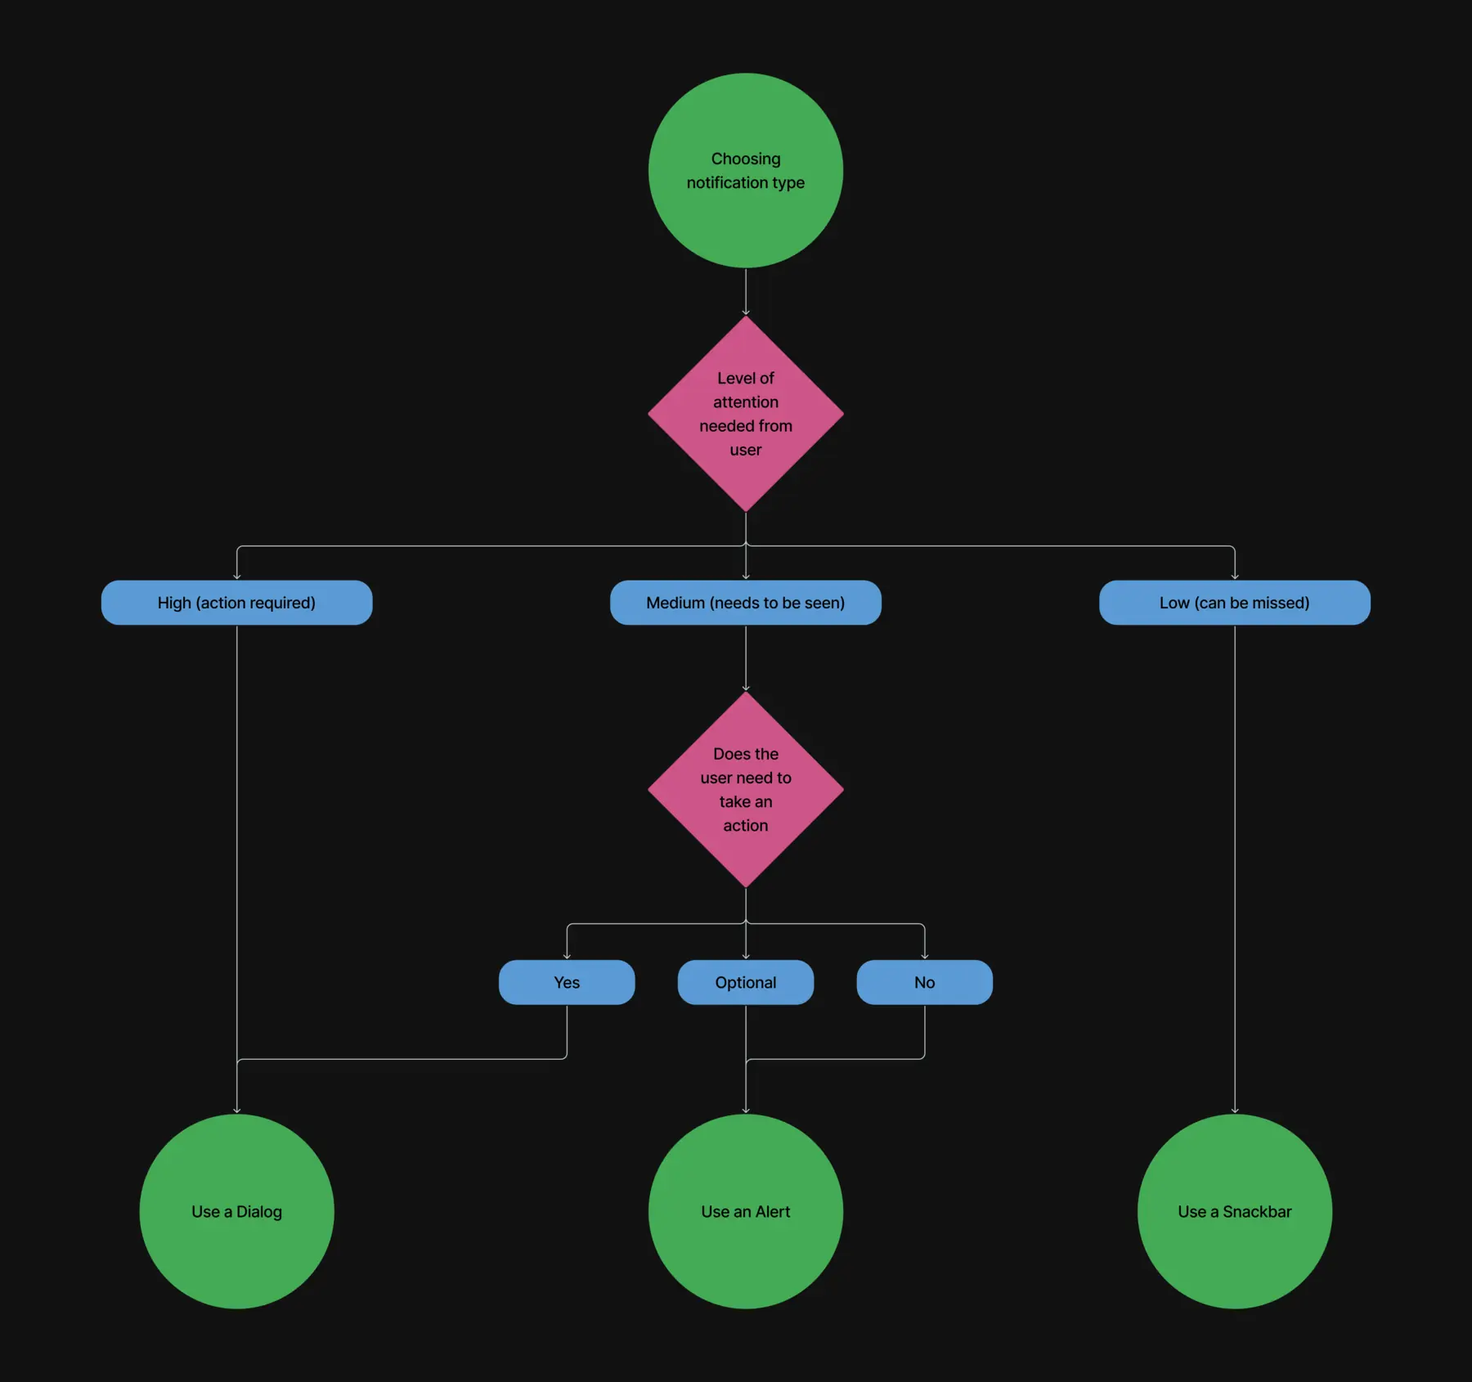
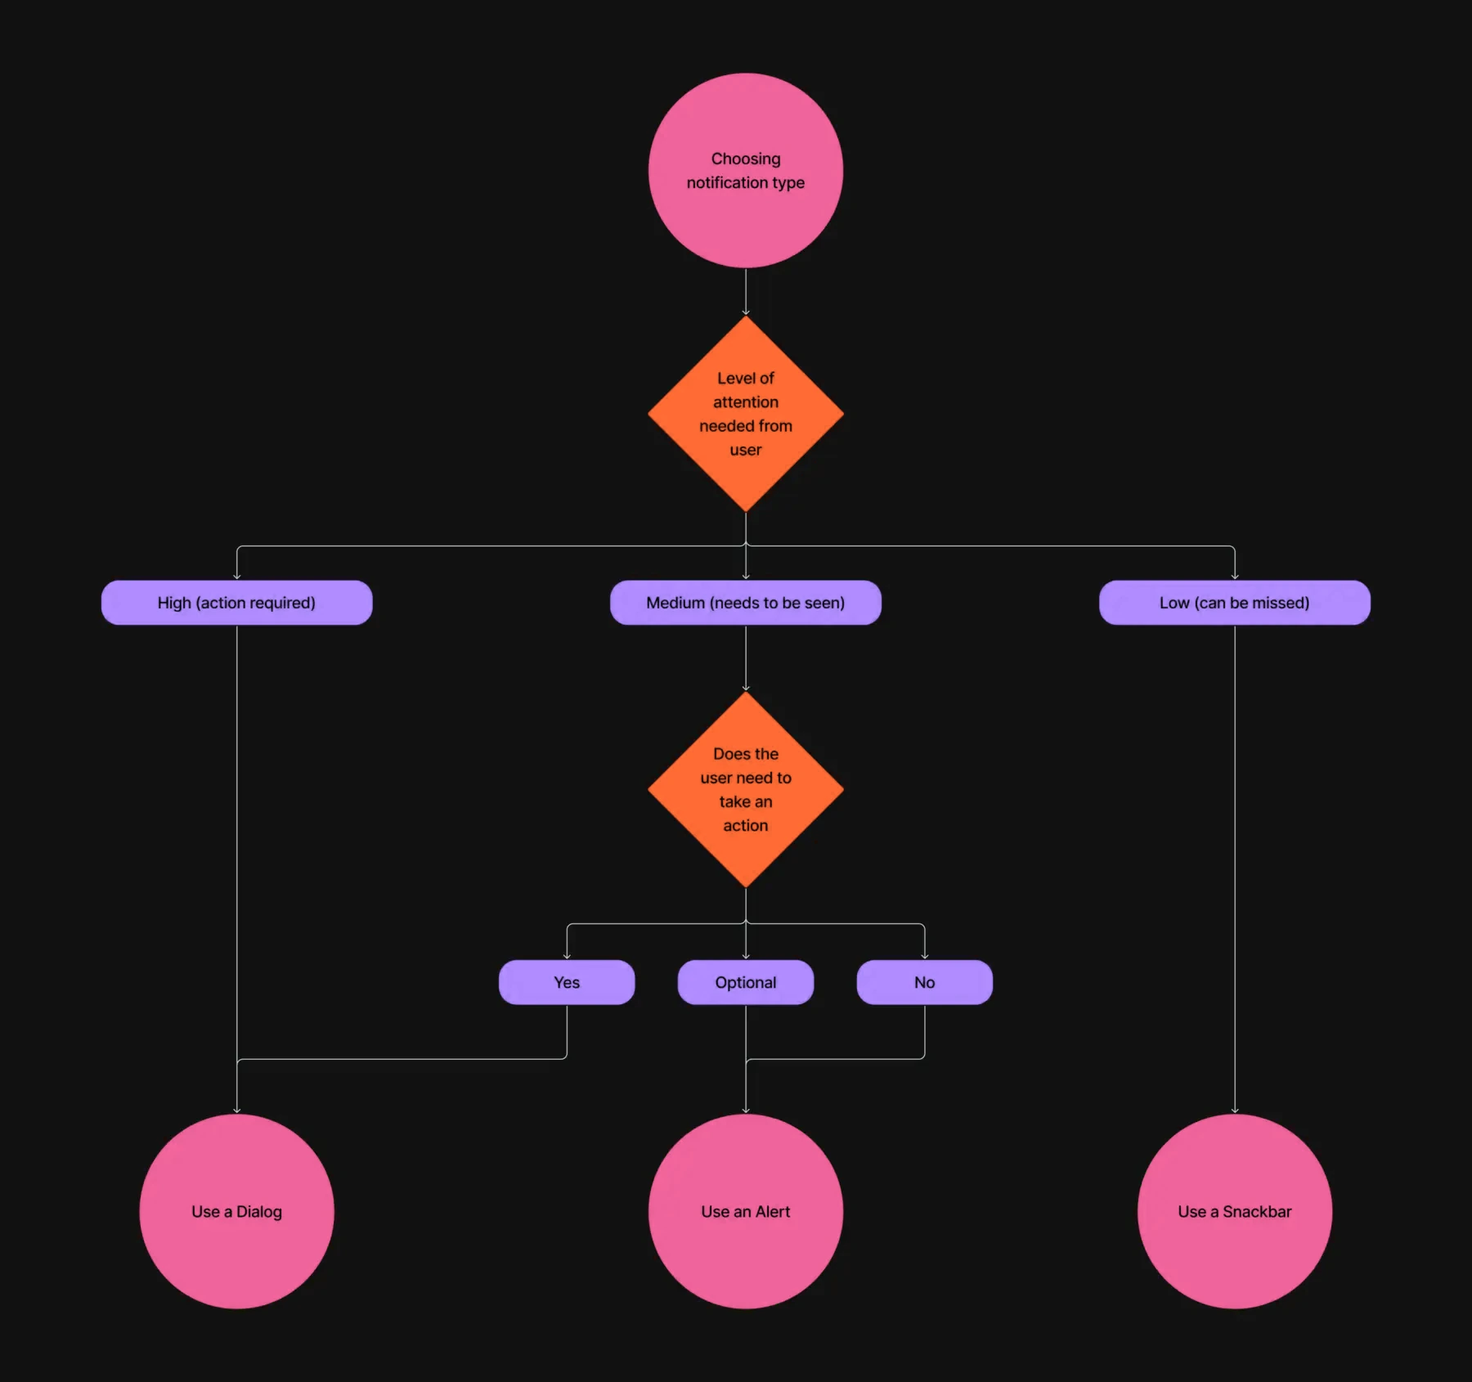
Consistency fixes: footer name removed and links centred, brighter body text, flowchart in site palette, design system accent orange, hidden pages noindex
Claude-Session: https://claude.ai/code/session_01Rgaxtm83BsambxhU9VTWpF

diff --git a/design-system.html b/design-system.html
@@ -327,7 +327,7 @@
       .img-feature .img-frame img { height: auto; }
     }
   </style>
-  <link rel="stylesheet" href="case-study.css?v=202611100658q">
+  <link rel="stylesheet" href="case-study.css?v=202611100738t">
   <style>
     .ds-flow { background: none; box-shadow: none !important; }
     .ds-flow-svg { display: block; width: 100%; height: auto; padding: clamp(16px, 3vw, 48px); box-sizing: border-box; }
@@ -373,7 +373,7 @@
   </div>
 
   <!-- Body -->
-  <div class="content-wrap cs-main" style="--accent:#2aa0a0">
+  <div class="content-wrap cs-main" style="--accent:#ff6b35">
     <div class="divider" style="margin-top: 0;"></div>
 
 
@@ -453,9 +453,9 @@
         <svg class="ds-flow-svg" viewBox="0 0 1560 520" role="img" aria-label="Decision flow for choosing a notification component. High attention needed: use a dialog. Medium: if the user must take an action use a dialog, if optional or not needed use an alert. Low: use a snackbar." font-family="'Schibsted Grotesk', sans-serif" font-weight="500">
         <defs><marker id="ah" viewBox="0 0 10 10" refX="9" refY="5" markerWidth="7" markerHeight="7" orient="auto-start-reverse"><path d="M0,1 L9,5 L0,9" fill="none" stroke="rgba(255,255,255,0.45)" stroke-width="1.5"/></marker></defs>
         <path d="M190,260 H262" fill="none" stroke="rgba(255,255,255,0.45)" stroke-width="1.5" marker-end="url(#ah)"/><path d="M455,260 H470" fill="none" stroke="rgba(255,255,255,0.45)" stroke-width="1.5"/><path d="M470,90 V430" fill="none" stroke="rgba(255,255,255,0.45)" stroke-width="1.5"/><path d="M470,90 H482" fill="none" stroke="rgba(255,255,255,0.45)" stroke-width="1.5" marker-end="url(#ah)"/><path d="M470,260 H482" fill="none" stroke="rgba(255,255,255,0.45)" stroke-width="1.5" marker-end="url(#ah)"/><path d="M470,430 H482" fill="none" stroke="rgba(255,255,255,0.45)" stroke-width="1.5" marker-end="url(#ah)"/><path d="M735,90 H1382" fill="none" stroke="rgba(255,255,255,0.45)" stroke-width="1.5" marker-end="url(#ah)"/><path d="M735,430 H1382" fill="none" stroke="rgba(255,255,255,0.45)" stroke-width="1.5" marker-end="url(#ah)"/><path d="M735,260 H802" fill="none" stroke="rgba(255,255,255,0.45)" stroke-width="1.5" marker-end="url(#ah)"/><path d="M995,260 H1030" fill="none" stroke="rgba(255,255,255,0.45)" stroke-width="1.5"/><path d="M1030,170 V350" fill="none" stroke="rgba(255,255,255,0.45)" stroke-width="1.5"/><path d="M1030,170 H1052" fill="none" stroke="rgba(255,255,255,0.45)" stroke-width="1.5" marker-end="url(#ah)"/><path d="M1030,260 H1052" fill="none" stroke="rgba(255,255,255,0.45)" stroke-width="1.5" marker-end="url(#ah)"/><path d="M1030,350 H1052" fill="none" stroke="rgba(255,255,255,0.45)" stroke-width="1.5" marker-end="url(#ah)"/><path d="M1205,170 H1290 Q1300,170 1300,160 V90" fill="none" stroke="rgba(255,255,255,0.45)" stroke-width="1.5"/><path d="M1205,260 H1382" fill="none" stroke="rgba(255,255,255,0.45)" stroke-width="1.5" marker-end="url(#ah)"/><path d="M1205,350 H1290 Q1300,350 1300,340 V260" fill="none" stroke="rgba(255,255,255,0.45)" stroke-width="1.5"/>
-        <circle cx="110" cy="260" r="80" fill="#43a854"/><text x="110" y="248.9" text-anchor="middle" dominant-baseline="central" font-size="17" fill="#111">Choosing</text><text x="110" y="271.1" text-anchor="middle" dominant-baseline="central" font-size="17" fill="#111">notification type</text><polygon points="360,165 455,260 360,355 265,260" fill="#d1578a"/><text x="360" y="240.5" text-anchor="middle" dominant-baseline="central" font-size="15" fill="#111">Level of</text><text x="360" y="260.0" text-anchor="middle" dominant-baseline="central" font-size="15" fill="#111">attention needed</text><text x="360" y="279.5" text-anchor="middle" dominant-baseline="central" font-size="15" fill="#111">from user</text><rect x="485.0" y="66" width="250" height="48" rx="12" fill="#5b9bd9"/><text x="610" y="90.0" text-anchor="middle" dominant-baseline="central" font-size="17" fill="#111">High (action required)</text><rect x="485.0" y="236" width="250" height="48" rx="12" fill="#5b9bd9"/><text x="610" y="260.0" text-anchor="middle" dominant-baseline="central" font-size="17" fill="#111">Medium (needs to be seen)</text><rect x="485.0" y="406" width="250" height="48" rx="12" fill="#5b9bd9"/><text x="610" y="430.0" text-anchor="middle" dominant-baseline="central" font-size="17" fill="#111">Low (can be missed)</text><polygon points="900,165 995,260 900,355 805,260" fill="#d1578a"/><text x="900" y="240.5" text-anchor="middle" dominant-baseline="central" font-size="15" fill="#111">Does the user</text><text x="900" y="260.0" text-anchor="middle" dominant-baseline="central" font-size="15" fill="#111">need to take</text><text x="900" y="279.5" text-anchor="middle" dominant-baseline="central" font-size="15" fill="#111">an action</text><rect x="1055.0" y="146" width="150" height="48" rx="12" fill="#5b9bd9"/><text x="1130" y="170.0" text-anchor="middle" dominant-baseline="central" font-size="17" fill="#111">Yes</text><rect x="1055.0" y="236" width="150" height="48" rx="12" fill="#5b9bd9"/><text x="1130" y="260.0" text-anchor="middle" dominant-baseline="central" font-size="17" fill="#111">Optional</text><rect x="1055.0" y="326" width="150" height="48" rx="12" fill="#5b9bd9"/><text x="1130" y="350.0" text-anchor="middle" dominant-baseline="central" font-size="17" fill="#111">No</text><circle cx="1460" cy="90" r="75" fill="#43a854"/><text x="1460" y="90.0" text-anchor="middle" dominant-baseline="central" font-size="17" fill="#111">Use a Dialog</text><circle cx="1460" cy="260" r="75" fill="#43a854"/><text x="1460" y="260.0" text-anchor="middle" dominant-baseline="central" font-size="17" fill="#111">Use an Alert</text><circle cx="1460" cy="430" r="75" fill="#43a854"/><text x="1460" y="430.0" text-anchor="middle" dominant-baseline="central" font-size="17" fill="#111">Use a Snackbar</text>
+        <circle cx="110" cy="260" r="80" fill="#f0649b"/><text x="110" y="248.9" text-anchor="middle" dominant-baseline="central" font-size="17" fill="#111">Choosing</text><text x="110" y="271.1" text-anchor="middle" dominant-baseline="central" font-size="17" fill="#111">notification type</text><polygon points="360,165 455,260 360,355 265,260" fill="#ff6b35"/><text x="360" y="240.5" text-anchor="middle" dominant-baseline="central" font-size="15" fill="#111">Level of</text><text x="360" y="260.0" text-anchor="middle" dominant-baseline="central" font-size="15" fill="#111">attention needed</text><text x="360" y="279.5" text-anchor="middle" dominant-baseline="central" font-size="15" fill="#111">from user</text><rect x="485.0" y="66" width="250" height="48" rx="12" fill="#b08cff"/><text x="610" y="90.0" text-anchor="middle" dominant-baseline="central" font-size="17" fill="#111">High (action required)</text><rect x="485.0" y="236" width="250" height="48" rx="12" fill="#b08cff"/><text x="610" y="260.0" text-anchor="middle" dominant-baseline="central" font-size="17" fill="#111">Medium (needs to be seen)</text><rect x="485.0" y="406" width="250" height="48" rx="12" fill="#b08cff"/><text x="610" y="430.0" text-anchor="middle" dominant-baseline="central" font-size="17" fill="#111">Low (can be missed)</text><polygon points="900,165 995,260 900,355 805,260" fill="#ff6b35"/><text x="900" y="240.5" text-anchor="middle" dominant-baseline="central" font-size="15" fill="#111">Does the user</text><text x="900" y="260.0" text-anchor="middle" dominant-baseline="central" font-size="15" fill="#111">need to take</text><text x="900" y="279.5" text-anchor="middle" dominant-baseline="central" font-size="15" fill="#111">an action</text><rect x="1055.0" y="146" width="150" height="48" rx="12" fill="#b08cff"/><text x="1130" y="170.0" text-anchor="middle" dominant-baseline="central" font-size="17" fill="#111">Yes</text><rect x="1055.0" y="236" width="150" height="48" rx="12" fill="#b08cff"/><text x="1130" y="260.0" text-anchor="middle" dominant-baseline="central" font-size="17" fill="#111">Optional</text><rect x="1055.0" y="326" width="150" height="48" rx="12" fill="#b08cff"/><text x="1130" y="350.0" text-anchor="middle" dominant-baseline="central" font-size="17" fill="#111">No</text><circle cx="1460" cy="90" r="75" fill="#f0649b"/><text x="1460" y="90.0" text-anchor="middle" dominant-baseline="central" font-size="17" fill="#111">Use a Dialog</text><circle cx="1460" cy="260" r="75" fill="#f0649b"/><text x="1460" y="260.0" text-anchor="middle" dominant-baseline="central" font-size="17" fill="#111">Use an Alert</text><circle cx="1460" cy="430" r="75" fill="#f0649b"/><text x="1460" y="430.0" text-anchor="middle" dominant-baseline="central" font-size="17" fill="#111">Use a Snackbar</text>
       </svg>
-        <img class="ds-flow-mobile" width="1800" height="1690" loading="lazy" decoding="async" src="images/ds2.webp" alt="Decision flow for choosing between a dialog, alert or snackbar">
+        <img class="ds-flow-mobile" width="1800" height="1690" loading="lazy" decoding="async" src="images/ds2.webp?v=202611100738t" alt="Decision flow for choosing between a dialog, alert or snackbar">
       </div>
       <p class="img-caption">Guidance for choosing the right notification component</p>
     </div>
@@ -514,14 +514,13 @@
     <div class="content-wrap">
       <p class="serif footer-cta" data-reveal>Let&rsquo;s talk.<br><a href="#" class="js-email"><span class="fx">Say hello</span> <span class="arr fx" aria-hidden="true">&rarr;</span></a></p>
       <div class="footer-row" data-reveal style="--d:0.15s">
-        <span class="footer-name">Dan Walker</span>
         <span class="footer-links"><a href="cv.html">CV</a><a href="#" id="footer-email-link">dwlkr [at] me.com</a><a href="tel:+447885725355">+44 7885 725355</a></span>
       </div>
     </div>
   </footer>
 
-  <script src="nav.js?v=202610202309l"></script>
-  <script src="case-study.js?v=202611100658q"></script>
+  <script src="nav.js?v=202611100738t"></script>
+  <script src="case-study.js?v=202611100738t"></script>
 
 </body>
 </html>

diff --git a/cv.html b/cv.html
@@ -187,7 +187,7 @@
       .cv-print-btn { display: none !important; }
     }
   </style>
-  <link rel="stylesheet" href="case-study.css?v=202611100658q">
+  <link rel="stylesheet" href="case-study.css?v=202611100738t">
   <style>
     /* CV entries inside the shared editorial grid */
     .cv-entry { margin-bottom: clamp(36px, 4vw, 56px); }
@@ -197,7 +197,7 @@
     .cv-entry-date { grid-column: 2; grid-row: 1; font-size: 0.8rem; color: var(--muted); opacity: 0.7; white-space: nowrap; font-variant-numeric: tabular-nums; }
     .cv-entry .cv-entry-company { grid-column: 1; grid-row: 2; font-size: 0.75rem; font-weight: 500; letter-spacing: 0.1em; text-transform: uppercase; color: var(--muted); opacity: 0.6; margin: 0; }
     ul.cv-list { list-style: none; margin: 0; padding: 0; }
-    ul.cv-list li { position: relative; padding-left: 20px; font-size: 1.02rem; line-height: 1.75; color: var(--muted); margin-bottom: 10px; max-width: 42em; }
+    ul.cv-list li { position: relative; padding-left: 20px; font-size: 1.02rem; line-height: 1.75; color: rgba(244,241,234,0.74); margin-bottom: 10px; max-width: 42em; }
     ul.cv-list li:last-child { margin-bottom: 0; }
     ul.cv-list li::before { content: ''; position: absolute; left: 0; top: 0.72em; width: 5px; height: 5px; border-radius: 50%; background: var(--accent, var(--pink)); opacity: 0.6; }
     .cv-skills { display: flex; flex-wrap: wrap; gap: 10px; }
@@ -437,14 +437,13 @@
     <div class="content-wrap">
       <p class="serif footer-cta" data-reveal>Let&rsquo;s talk.<br><a href="#" class="js-email"><span class="fx">Say hello</span> <span class="arr fx" aria-hidden="true">&rarr;</span></a></p>
       <div class="footer-row" data-reveal style="--d:0.15s">
-        <span class="footer-name">Dan Walker</span>
         <span class="footer-links"><a href="cv.html">CV</a><a href="#" id="footer-email-link">dwlkr [at] me.com</a><a href="tel:+447885725355">+44 7885 725355</a></span>
       </div>
     </div>
   </footer>
 
-  <script src="nav.js?v=202610202309l"></script>
-  <script src="case-study.js?v=202611100658q"></script>
+  <script src="nav.js?v=202611100738t"></script>
+  <script src="case-study.js?v=202611100738t"></script>
   <script>
     var cvEmail = document.getElementById('cv-email');
     if (cvEmail) cvEmail.textContent = 'dwlkr' + '@' + 'me.com';

diff --git a/index.html b/index.html
@@ -384,12 +384,11 @@
     @media (prefers-reduced-motion: reduce) { .fx { animation: none; } }
     .footer-cta a .arr { display: inline-block; font-family: 'Schibsted Grotesk', sans-serif; font-weight: 300; transition: transform 0.4s cubic-bezier(0.22, 1, 0.36, 1); }
     .footer-cta a:hover .arr { transform: translateX(0.12em); }
-    .footer-row { display: flex; flex-wrap: wrap; justify-content: space-between; gap: 16px; padding-top: 24px; border-top: 1px solid rgba(255,255,255,0.08); font-size: 0.875rem; color: var(--muted); }
+    .footer-row { display: flex; flex-wrap: wrap; justify-content: center; gap: 16px; padding-top: 24px; border-top: 1px solid rgba(255,255,255,0.08); font-size: 0.875rem; color: var(--muted); }
     .footer-row a { color: var(--muted); text-decoration: none; margin-left: 24px; }
     .footer-row a:first-child { margin-left: 0; }
     .footer-row a:hover { color: var(--ink); }
     @media (max-width: 768px) {
-      .footer-name { display: none; }
       .footer-row { justify-content: flex-start; }
       .footer-links { display: flex; flex-wrap: wrap; justify-content: flex-start; gap: 8px 24px; }
       .footer-links a { margin-left: 0 !important; }
@@ -621,13 +620,12 @@
     <div class="content-wrap">
       <p class="serif footer-cta" data-reveal>Let&rsquo;s talk.<br><a href="#" class="js-email"><span class="fx">Say hello</span> <span class="arr fx" aria-hidden="true">&rarr;</span></a></p>
       <div class="footer-row" data-reveal style="--d:0.15s">
-        <span class="footer-name">Dan Walker</span>
         <span class="footer-links"><a href="cv.html">CV</a><a href="#" id="footer-email-link">dwlkr [at] me.com</a><a href="tel:+447885725355">+44 7885 725355</a></span>
       </div>
     </div>
   </footer>
 
-  <script src="nav.js?v=202610202309l"></script>
+  <script src="nav.js?v=202611100738t"></script>
   <script>
     // Word reveal — handles plain text and mixed HTML children
     document.querySelectorAll('.word-reveal').forEach(function(el) {

diff --git a/case-study.css b/case-study.css
@@ -195,12 +195,11 @@ html:not(.js) .loader, html:not(.is-loading) .loader { opacity: 0; visibility: h
 @media (prefers-reduced-motion: reduce) { .fx { animation: none; } }
 .footer-cta a .arr { display: inline-block; font-family: 'Schibsted Grotesk', sans-serif; font-weight: 300; transition: transform 0.4s var(--ease); }
 .footer-cta a:hover .arr { transform: translateX(0.12em); }
-.footer-row { display: flex; flex-wrap: wrap; justify-content: space-between; gap: 16px; padding-top: 24px; border-top: 1px solid rgba(255,255,255,0.08); font-size: 0.875rem; color: var(--muted); }
+.footer-row { display: flex; flex-wrap: wrap; justify-content: center; gap: 16px; padding-top: 24px; border-top: 1px solid rgba(255,255,255,0.08); font-size: 0.875rem; color: var(--muted); }
 .footer-row a { color: var(--muted); text-decoration: none; margin-left: 24px; }
 .footer-row a:first-child { margin-left: 0; }
 .footer-row a:hover { color: var(--ink); }
 @media (max-width: 768px) {
-  .footer-name { display: none; }
   .footer-row { justify-content: flex-start; }
   .footer-links { display: flex; flex-wrap: wrap; justify-content: flex-start; gap: 8px 24px; }
   .footer-links a { margin-left: 0 !important; }
@@ -285,3 +284,6 @@ h1, .cs-h1, h2, h3, .section-title { text-wrap: balance; }
 
 /* Literata: semi-bold, slightly tightened for big titles */
 .cs-h1, .cs-header h1 { font-weight: 600 !important; letter-spacing: -0.02em !important; }
+
+/* Body text: same soft white as the homepage descriptions (was a duller grey) */
+.cs-main .body-text, .cs-main ul.cv-list li { color: rgba(244,241,234,0.74); }

diff --git a/about.html b/about.html
@@ -321,7 +321,7 @@
       .img-feature .img-frame img { height: auto; }
     }
   </style>
-  <link rel="stylesheet" href="case-study.css?v=202611100658q">
+  <link rel="stylesheet" href="case-study.css?v=202611100738t">
   <style>
     .about-header .cs-h1 { margin-bottom: clamp(20px, 2.4vw, 32px); }
     .about-header .cs-intro { max-width: 32em; }
@@ -382,14 +382,13 @@
     <div class="content-wrap">
       <p class="serif footer-cta" data-reveal>Let&rsquo;s talk.<br><a href="#" class="js-email"><span class="fx">Say hello</span> <span class="arr fx" aria-hidden="true">&rarr;</span></a></p>
       <div class="footer-row" data-reveal style="--d:0.15s">
-        <span class="footer-name">Dan Walker</span>
         <span class="footer-links"><a href="cv.html">CV</a><a href="#" id="footer-email-link">dwlkr [at] me.com</a><a href="tel:+447885725355">+44 7885 725355</a></span>
       </div>
     </div>
   </footer>
 
-  <script src="nav.js?v=202610202309l"></script>
-  <script src="case-study.js?v=202611100658q"></script>
+  <script src="nav.js?v=202611100738t"></script>
+  <script src="case-study.js?v=202611100738t"></script>
 
 </body>
 </html>

diff --git a/case-study-1.html b/case-study-1.html
@@ -321,7 +321,7 @@
       .img-feature .img-frame img { height: auto; }
     }
   </style>
-  <link rel="stylesheet" href="case-study.css?v=202611100658q">
+  <link rel="stylesheet" href="case-study.css?v=202611100738t">
   <style>
     .old-tools { margin: 0 0 clamp(72px, 9vw, 140px); }
     .old-tools .img-grid { margin: 0 !important; }
@@ -532,14 +532,13 @@
     <div class="content-wrap">
       <p class="serif footer-cta" data-reveal>Let&rsquo;s talk.<br><a href="#" class="js-email"><span class="fx">Say hello</span> <span class="arr fx" aria-hidden="true">&rarr;</span></a></p>
       <div class="footer-row" data-reveal style="--d:0.15s">
-        <span class="footer-name">Dan Walker</span>
         <span class="footer-links"><a href="cv.html">CV</a><a href="#" id="footer-email-link">dwlkr [at] me.com</a><a href="tel:+447885725355">+44 7885 725355</a></span>
       </div>
     </div>
   </footer>
 
-  <script src="nav.js?v=202610202309l"></script>
-  <script src="case-study.js?v=202611100658q"></script>
+  <script src="nav.js?v=202611100738t"></script>
+  <script src="case-study.js?v=202611100738t"></script>
 
 </body>
 </html>

diff --git a/case-study-2.html b/case-study-2.html
@@ -347,7 +347,7 @@
       .img-feature .img-light, .img-feature .img-dark { height: auto; aspect-ratio: 4/3; }
     }
   </style>
-  <link rel="stylesheet" href="case-study.css?v=202611100658q">
+  <link rel="stylesheet" href="case-study.css?v=202611100738t">
 </head>
 
 <body>
@@ -568,14 +568,13 @@
     <div class="content-wrap">
       <p class="serif footer-cta" data-reveal>Let&rsquo;s talk.<br><a href="#" class="js-email"><span class="fx">Say hello</span> <span class="arr fx" aria-hidden="true">&rarr;</span></a></p>
       <div class="footer-row" data-reveal style="--d:0.15s">
-        <span class="footer-name">Dan Walker</span>
         <span class="footer-links"><a href="cv.html">CV</a><a href="#" id="footer-email-link">dwlkr [at] me.com</a><a href="tel:+447885725355">+44 7885 725355</a></span>
       </div>
     </div>
   </footer>
 
-  <script src="nav.js?v=202610202309l"></script>
-  <script src="case-study.js?v=202611100658q"></script>
+  <script src="nav.js?v=202611100738t"></script>
+  <script src="case-study.js?v=202611100738t"></script>
   <script>
 
     function buildFlowSVG() {

diff --git a/case-study-3.html b/case-study-3.html
@@ -315,7 +315,7 @@
       .img-feature .img-light, .img-feature .img-dark { height: auto; aspect-ratio: 4/3; }
     }
   </style>
-  <link rel="stylesheet" href="case-study.css?v=202611100658q">
+  <link rel="stylesheet" href="case-study.css?v=202611100738t">
 </head>
 
 <body>
@@ -501,14 +501,13 @@
     <div class="content-wrap">
       <p class="serif footer-cta" data-reveal>Let&rsquo;s talk.<br><a href="#" class="js-email"><span class="fx">Say hello</span> <span class="arr fx" aria-hidden="true">&rarr;</span></a></p>
       <div class="footer-row" data-reveal style="--d:0.15s">
-        <span class="footer-name">Dan Walker</span>
         <span class="footer-links"><a href="cv.html">CV</a><a href="#" id="footer-email-link">dwlkr [at] me.com</a><a href="tel:+447885725355">+44 7885 725355</a></span>
       </div>
     </div>
   </footer>
 
-  <script src="nav.js?v=202610202309l"></script>
-  <script src="case-study.js?v=202611100658q"></script>
+  <script src="nav.js?v=202611100738t"></script>
+  <script src="case-study.js?v=202611100738t"></script>
 
 </body>
 </html>

diff --git a/previous-work.html b/previous-work.html
@@ -321,7 +321,7 @@
       .img-feature .img-frame img { height: auto; }
     }
   </style>
-  <link rel="stylesheet" href="case-study.css?v=202611100658q">
+  <link rel="stylesheet" href="case-study.css?v=202611100738t">
 </head>
 
 <body>
@@ -479,14 +479,13 @@
     <div class="content-wrap">
       <p class="serif footer-cta" data-reveal>Let&rsquo;s talk.<br><a href="#" class="js-email"><span class="fx">Say hello</span> <span class="arr fx" aria-hidden="true">&rarr;</span></a></p>
       <div class="footer-row" data-reveal style="--d:0.15s">
-        <span class="footer-name">Dan Walker</span>
         <span class="footer-links"><a href="cv.html">CV</a><a href="#" id="footer-email-link">dwlkr [at] me.com</a><a href="tel:+447885725355">+44 7885 725355</a></span>
       </div>
     </div>
   </footer>
 
-  <script src="nav.js?v=202610202309l"></script>
-  <script src="case-study.js?v=202611100658q"></script>
+  <script src="nav.js?v=202611100738t"></script>
+  <script src="case-study.js?v=202611100738t"></script>
 
 </body>
 </html>
